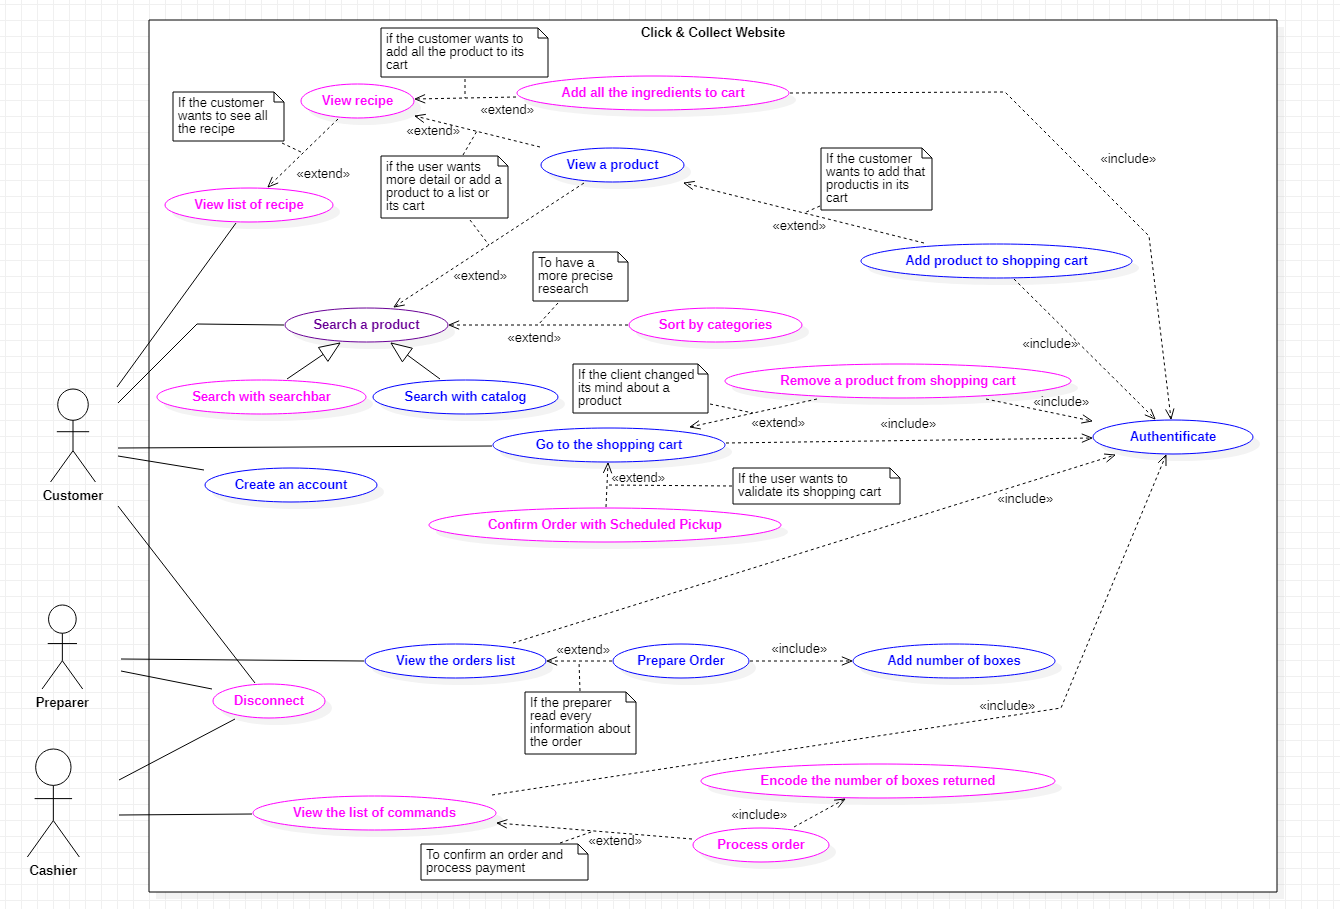
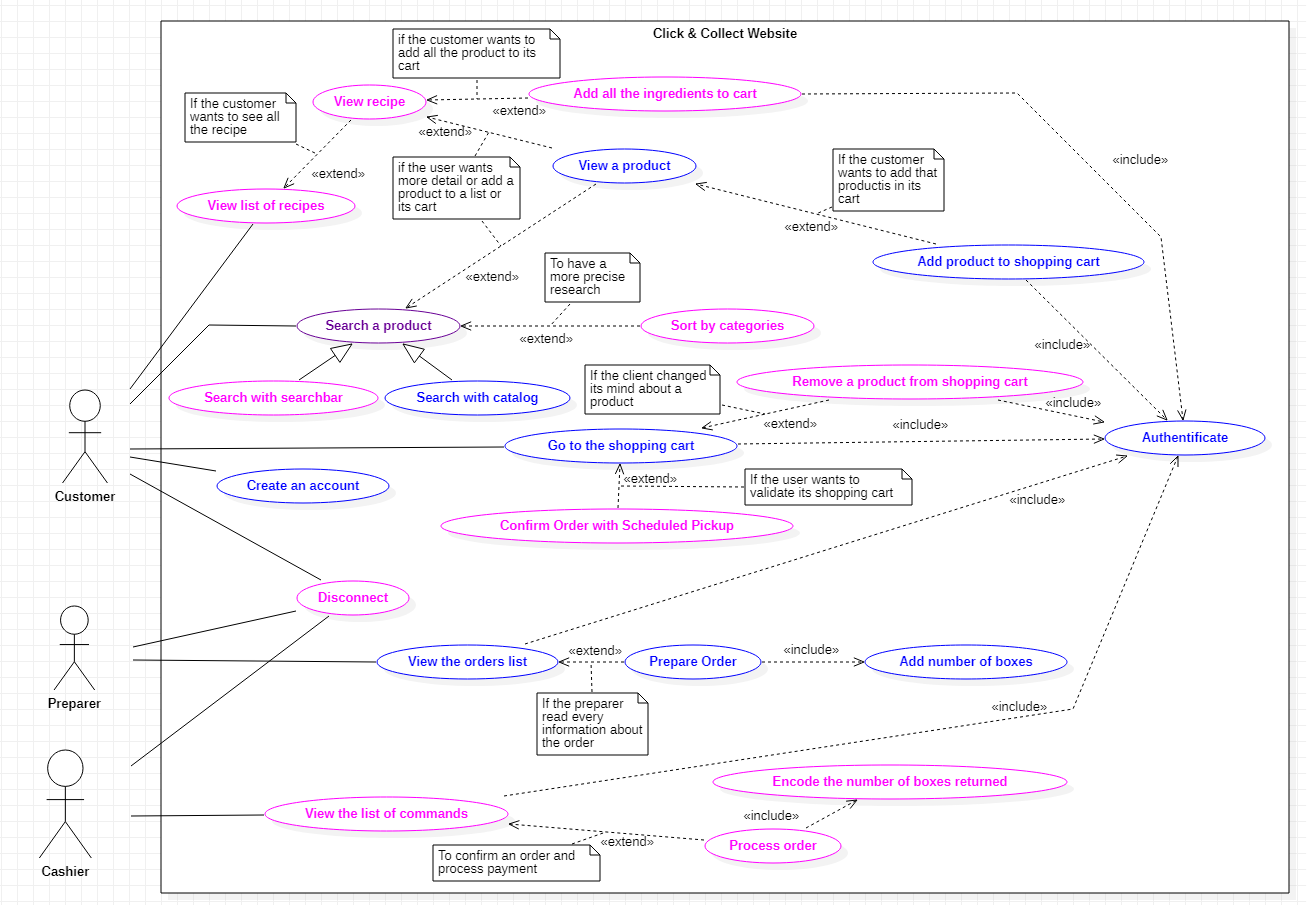
last changes

diff --git a/ClickCollect_Antoine_Nolan_2026/Controllers/CashierController.cs b/ClickCollect_Antoine_Nolan_2026/Controllers/CashierController.cs
@@ -44,7 +44,11 @@ namespace ClickCollect_Antoine_Nolan_2026.Controllers
                 return RedirectToAction("Payment", "Cashier", id);
             }
 
-            await Order.UpdateOrderStatusAsync(orderDAL, id, OrderStatusEnum.Fullfilled, boxesUsed, boxesReturned);
+            if(! await Order.UpdateOrderStatusAsync(orderDAL, id, OrderStatusEnum.Fullfilled, boxesUsed, boxesReturned))
+            {
+                TempData["Error"] = "Error with the informations given !";
+                return RedirectToAction("Payment", "Cashier", id);
+            }
 
             TempData["Success"] = $"{id} valided";
             return RedirectToAction("Index");
@@ -88,11 +92,10 @@ namespace ClickCollect_Antoine_Nolan_2026.Controllers
 
             List<Order> readyOrders = await orderDAL.GetReadyOrdersByShopAsync(cashier.ItsShop.Id);
 
-            DateTime today = DateTime.Today;
             CashierViewModel vm = new CashierViewModel();
 
-            vm.TodayOrders = readyOrders.Where(o => o.Slot != null && o.Slot.StartTime.Date == today).ToList();
-            vm.OldOrders = readyOrders.Where(o => o.Slot != null && o.Slot.StartTime.Date < today).ToList();
+            vm.TodayOrders = readyOrders.Where(o => o.Slot != null && o.Slot.StartTime.Date == DateTime.Today).ToList();
+            vm.OldOrders = readyOrders.Where(o => o.Slot != null && o.Slot.StartTime.Date < DateTime.Today).ToList();
 
             return View(vm);
         }